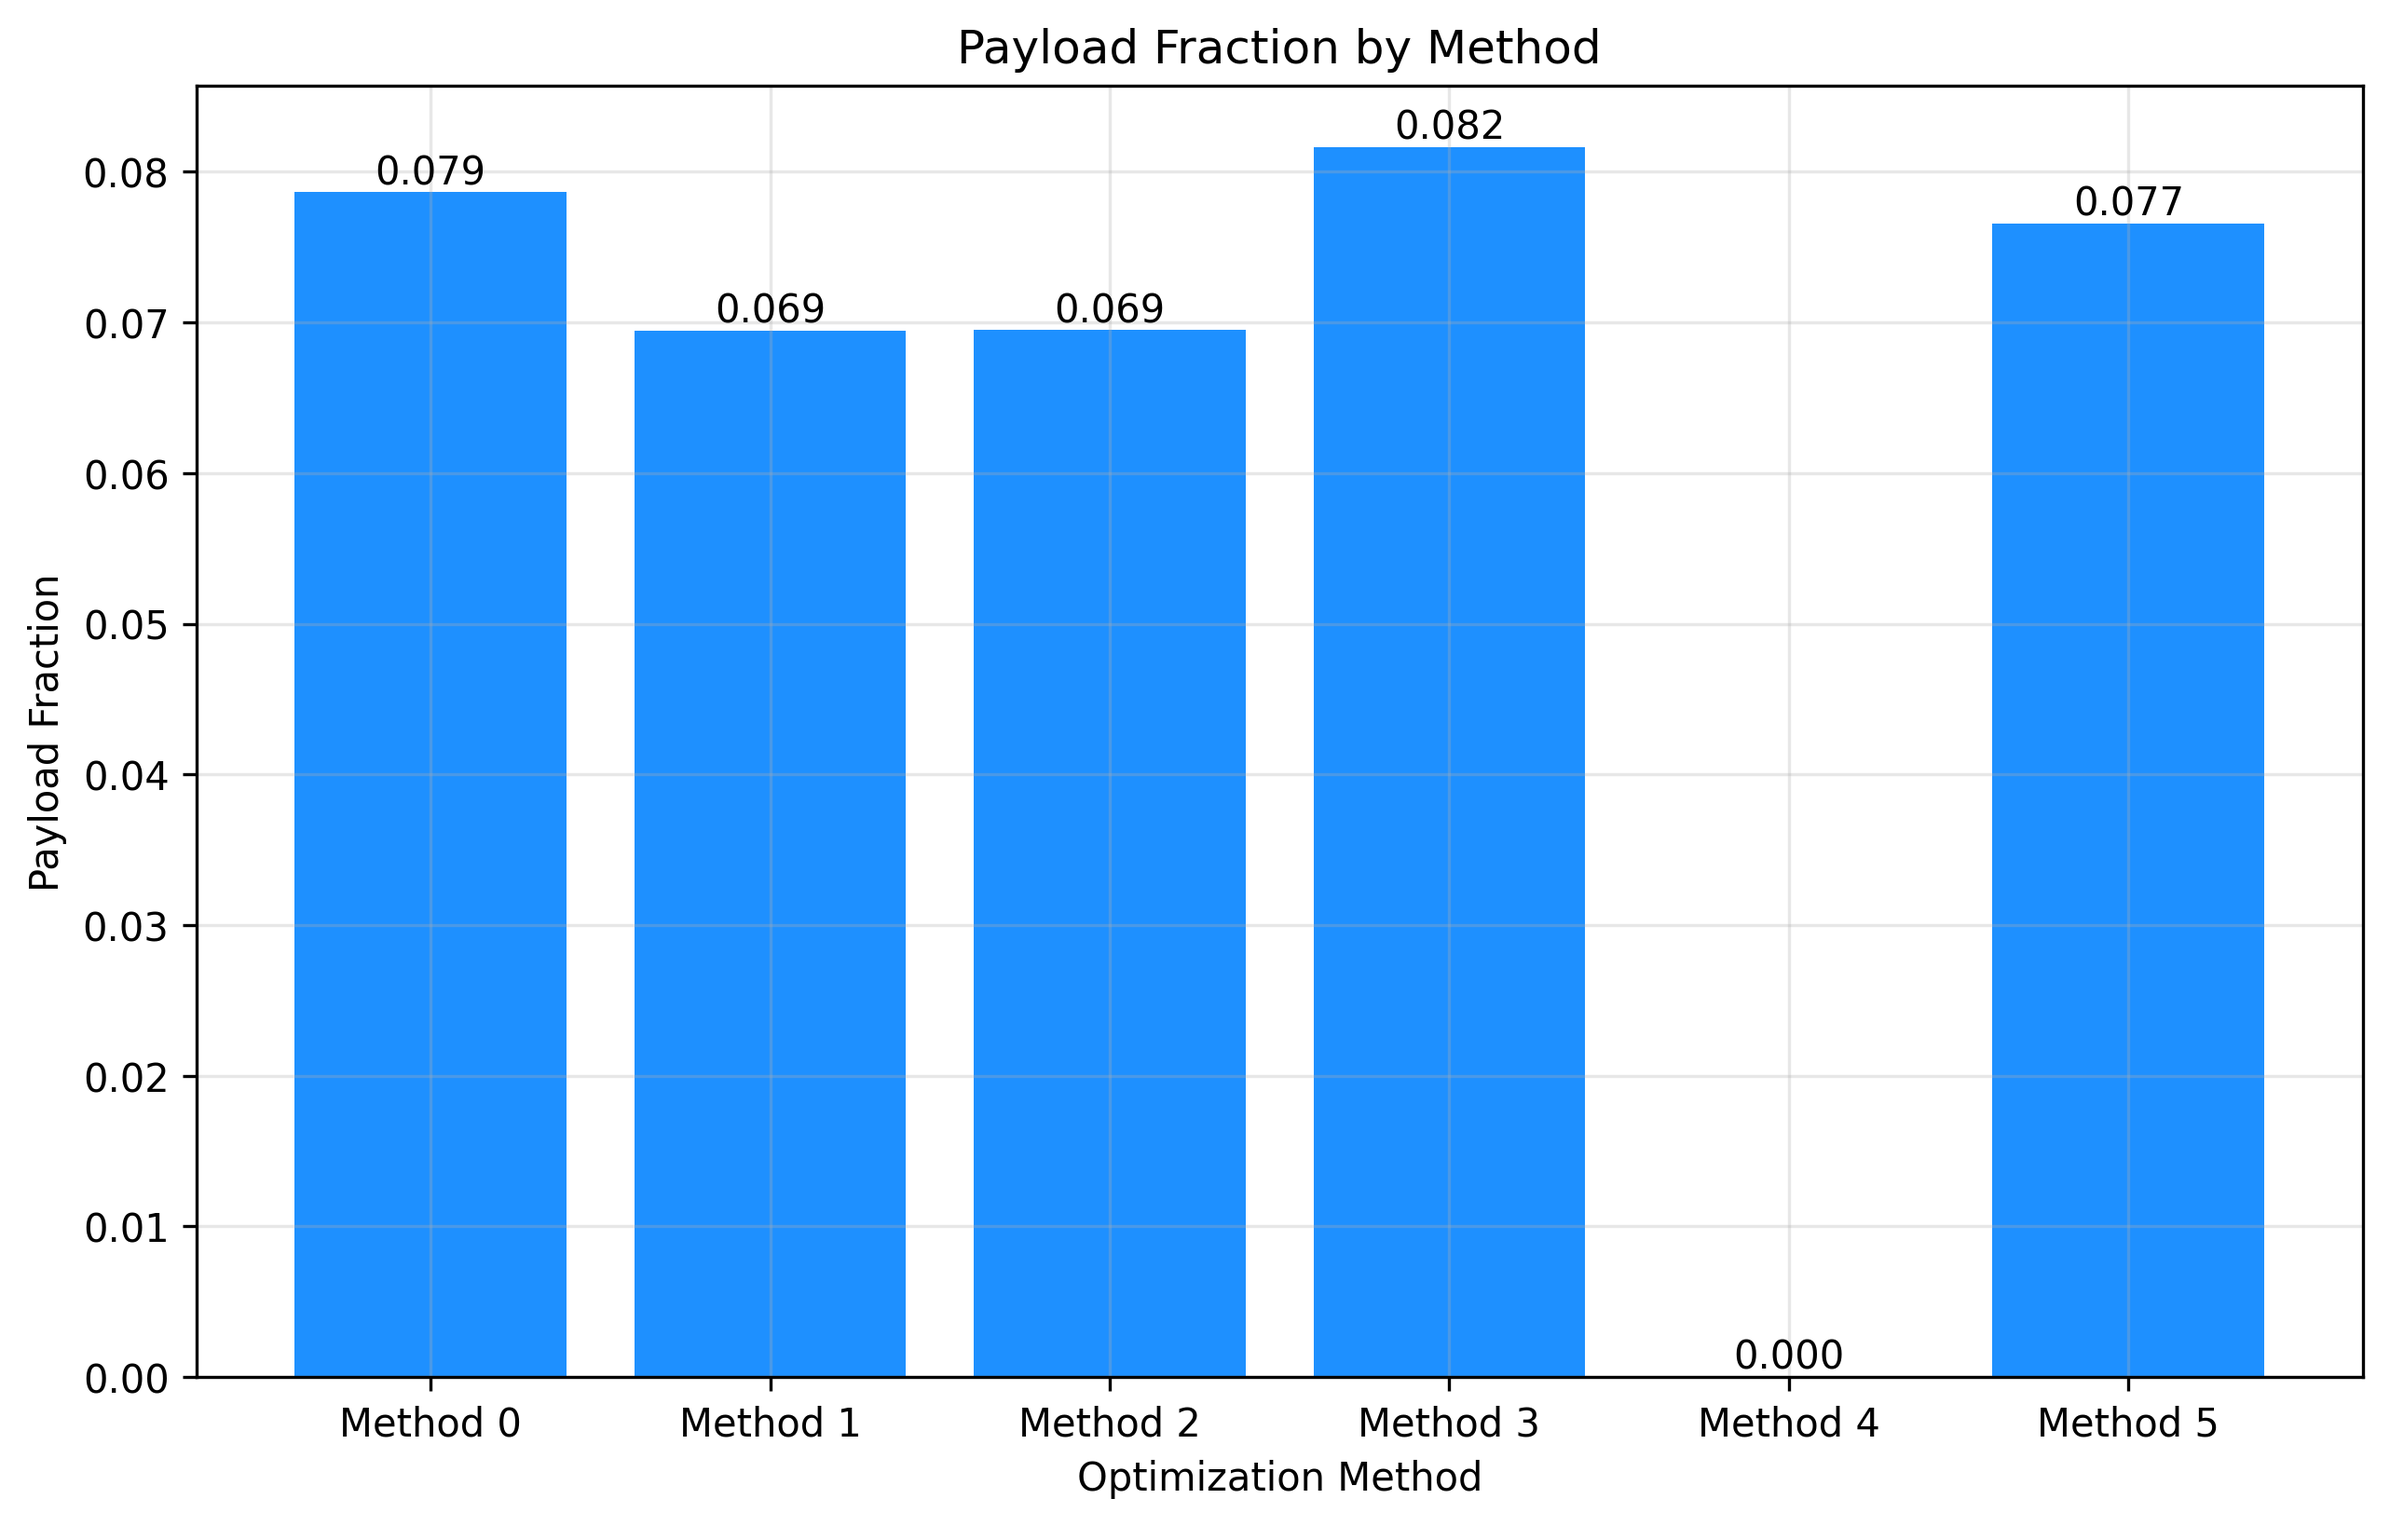
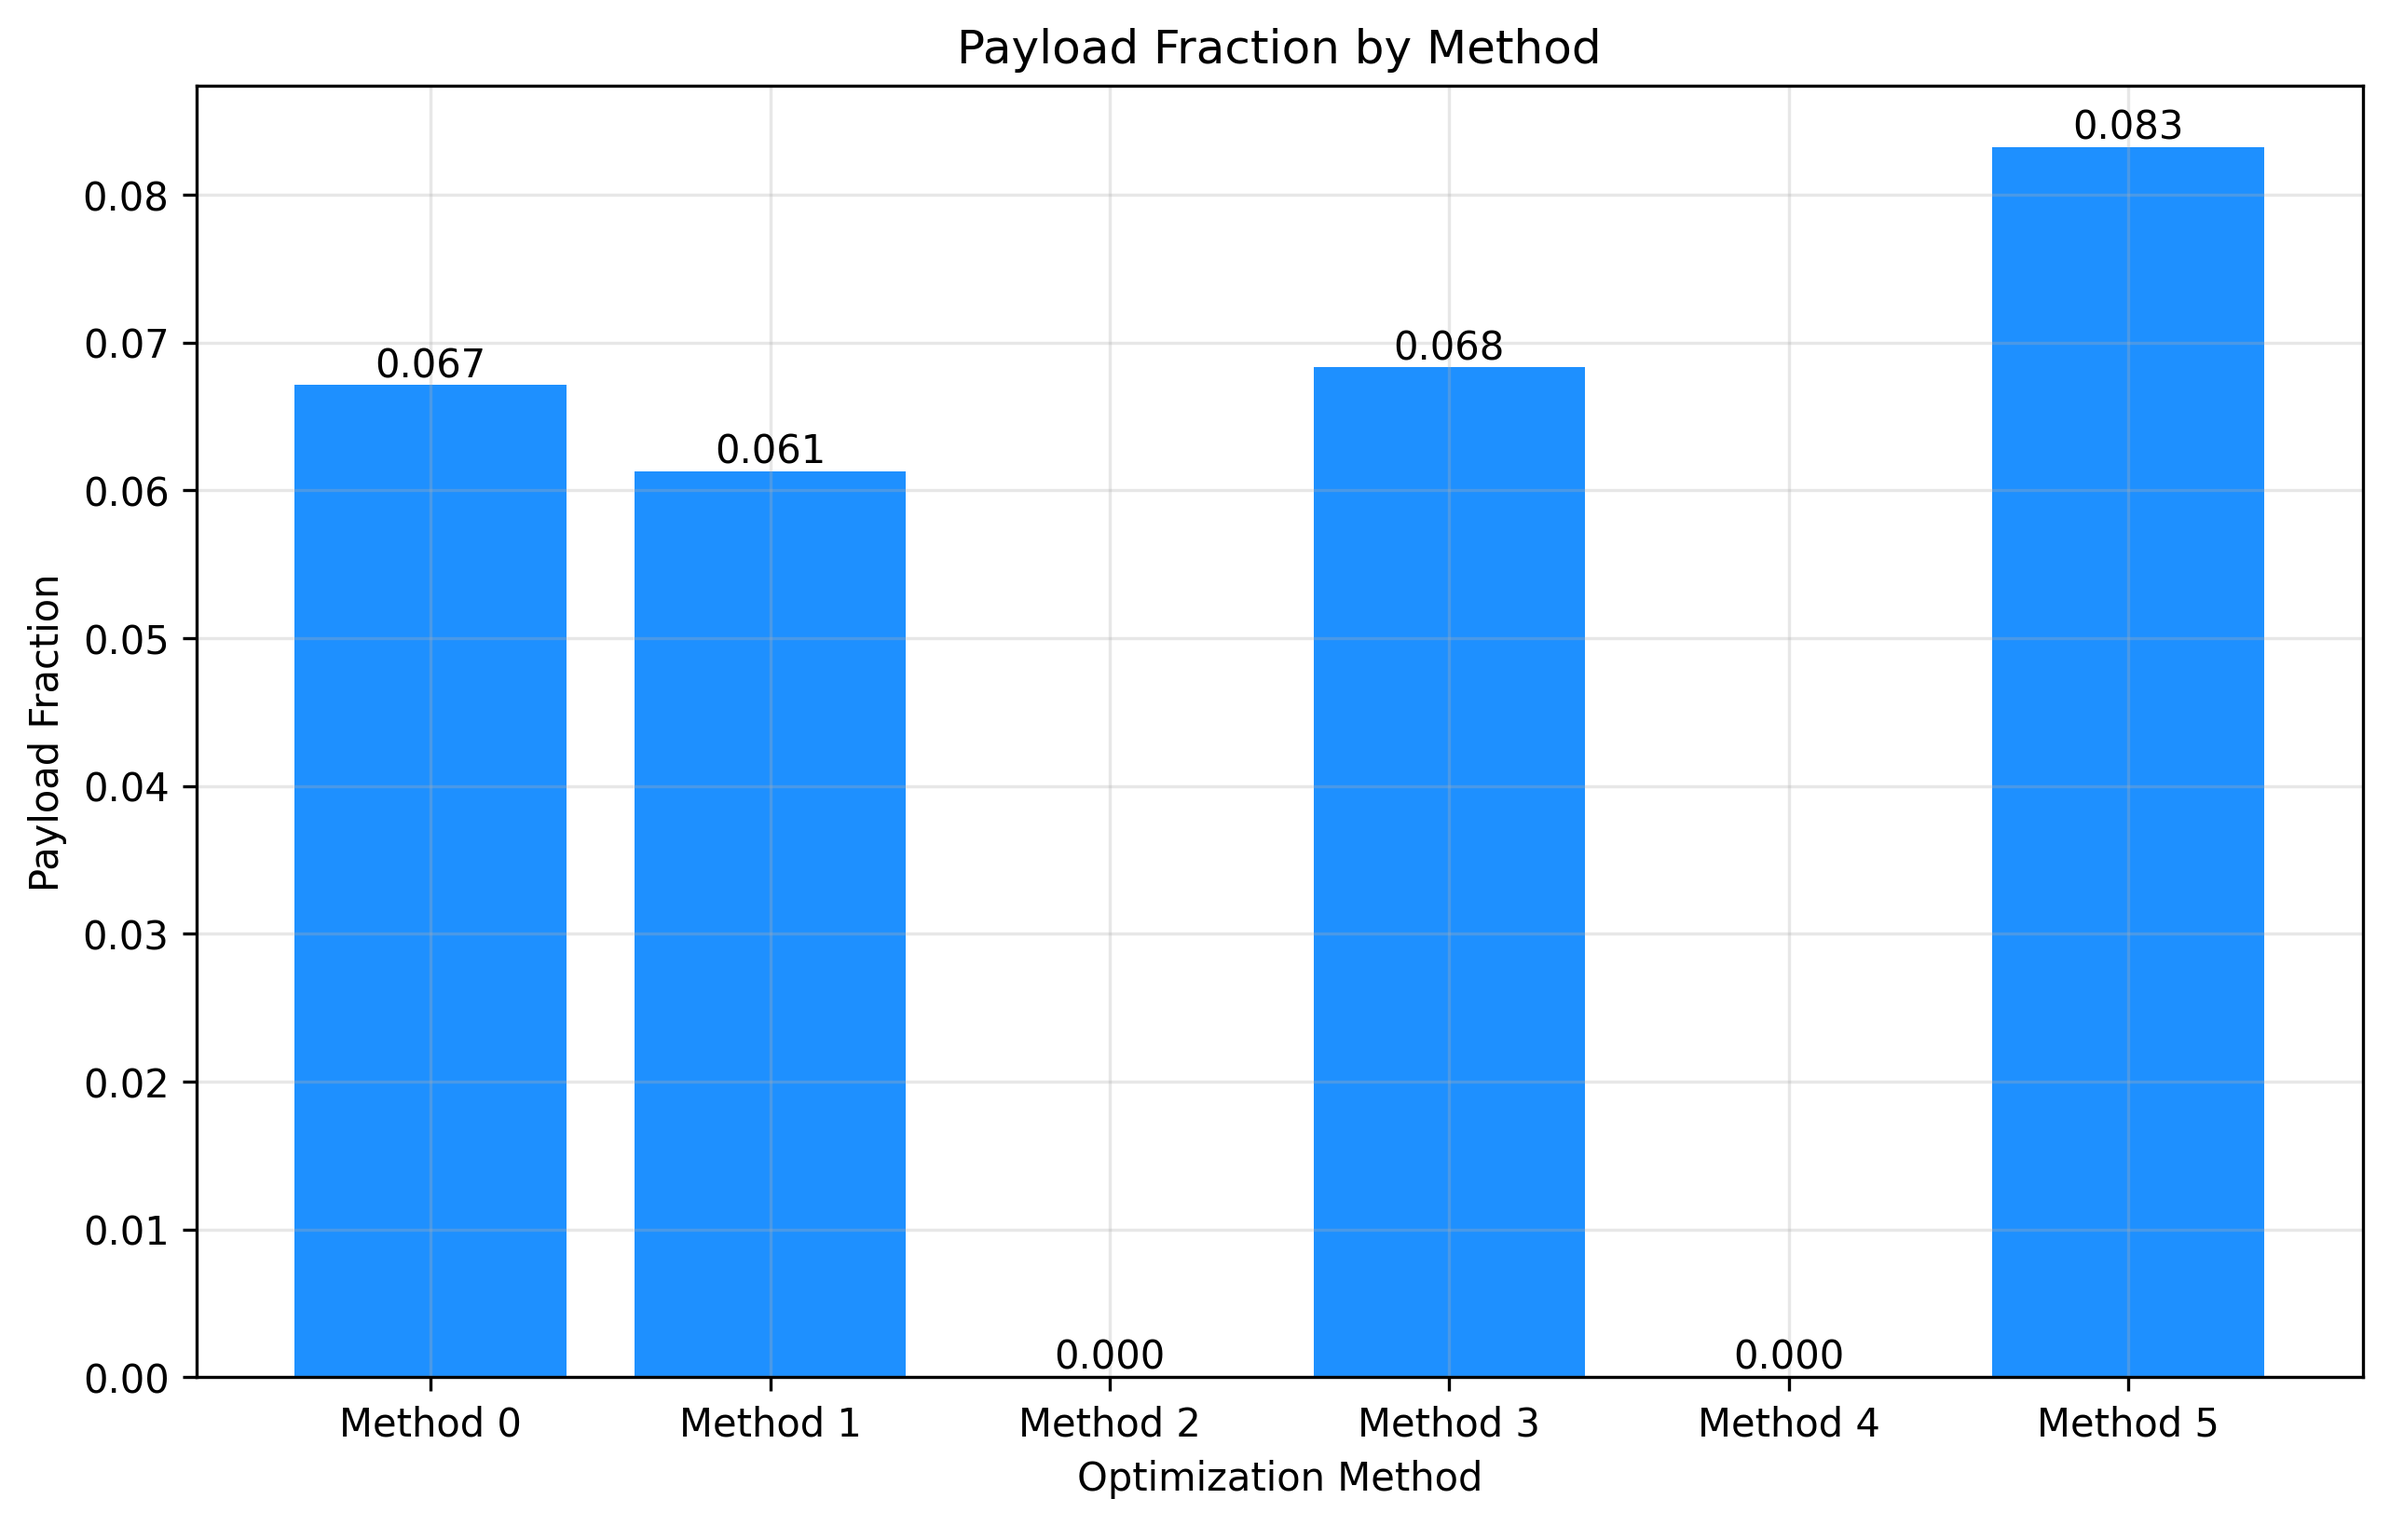
fixed DE

diff --git a/Stage_Opt/src/optimization/solvers/de_solver.py b/Stage_Opt/src/optimization/solvers/de_solver.py
@@ -71,6 +71,8 @@ class DifferentialEvolutionSolver(BaseSolver):
         result = self.objective(x)
         if isinstance(result, tuple):
             return float(result[0])  # Return just the objective value
+        if result == float('inf') or result > 1e10:  # Handle very large penalties
+            return float('inf')
         return float(result)
         
     def solve(self, initial_guess, bounds):
@@ -119,10 +121,16 @@ class DifferentialEvolutionSolver(BaseSolver):
             
             # Process results
             violation = self.get_violation(result.x)
-            success = violation < 1e-4 and result.fun < float('inf')  # Check both violation and objective
+            obj_value = self._objective_wrapper(result.x)
+            
+            # Check for both constraint satisfaction and valid objective
+            success = (violation < 1e-4 and 
+                      obj_value != float('inf') and 
+                      obj_value < 1e10 and
+                      not np.isnan(obj_value))
             
             if not success:
-                message = f"Failed to find feasible solution (violation={violation:.2e})"
+                message = f"Failed to find feasible solution (violation={violation:.2e}, obj={obj_value:.2e})"
             else:
                 message = "Optimization completed successfully"
             
@@ -130,7 +138,7 @@ class DifferentialEvolutionSolver(BaseSolver):
             
             return {
                 'x': result.x,
-                'fun': result.fun if success else float('inf'),
+                'fun': obj_value if success else float('inf'),
                 'success': success,
                 'message': message,
                 'nfev': result.nfev,
@@ -160,7 +168,7 @@ class DifferentialEvolutionSolver(BaseSolver):
             elif x[i] > upper:
                 violation += abs(x[i] - upper)
                 
-        return violation
+        return violation if violation < 1e10 else float('inf')  # Cap very large violations
 
     def objective(self, x):
         """Objective function with enhanced constraint handling."""
